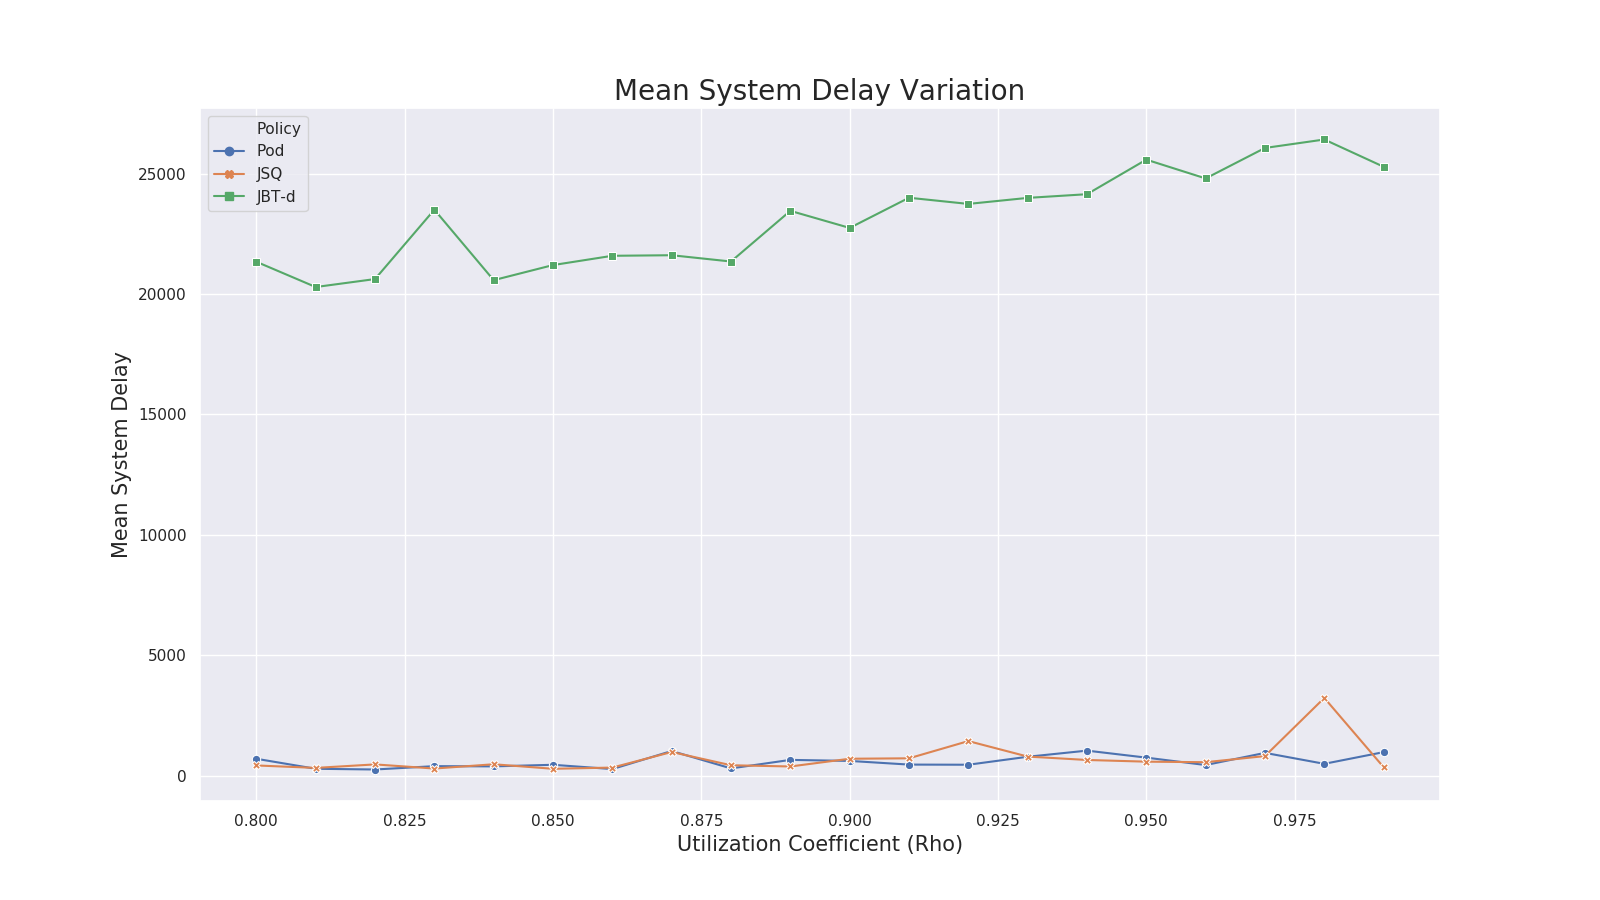
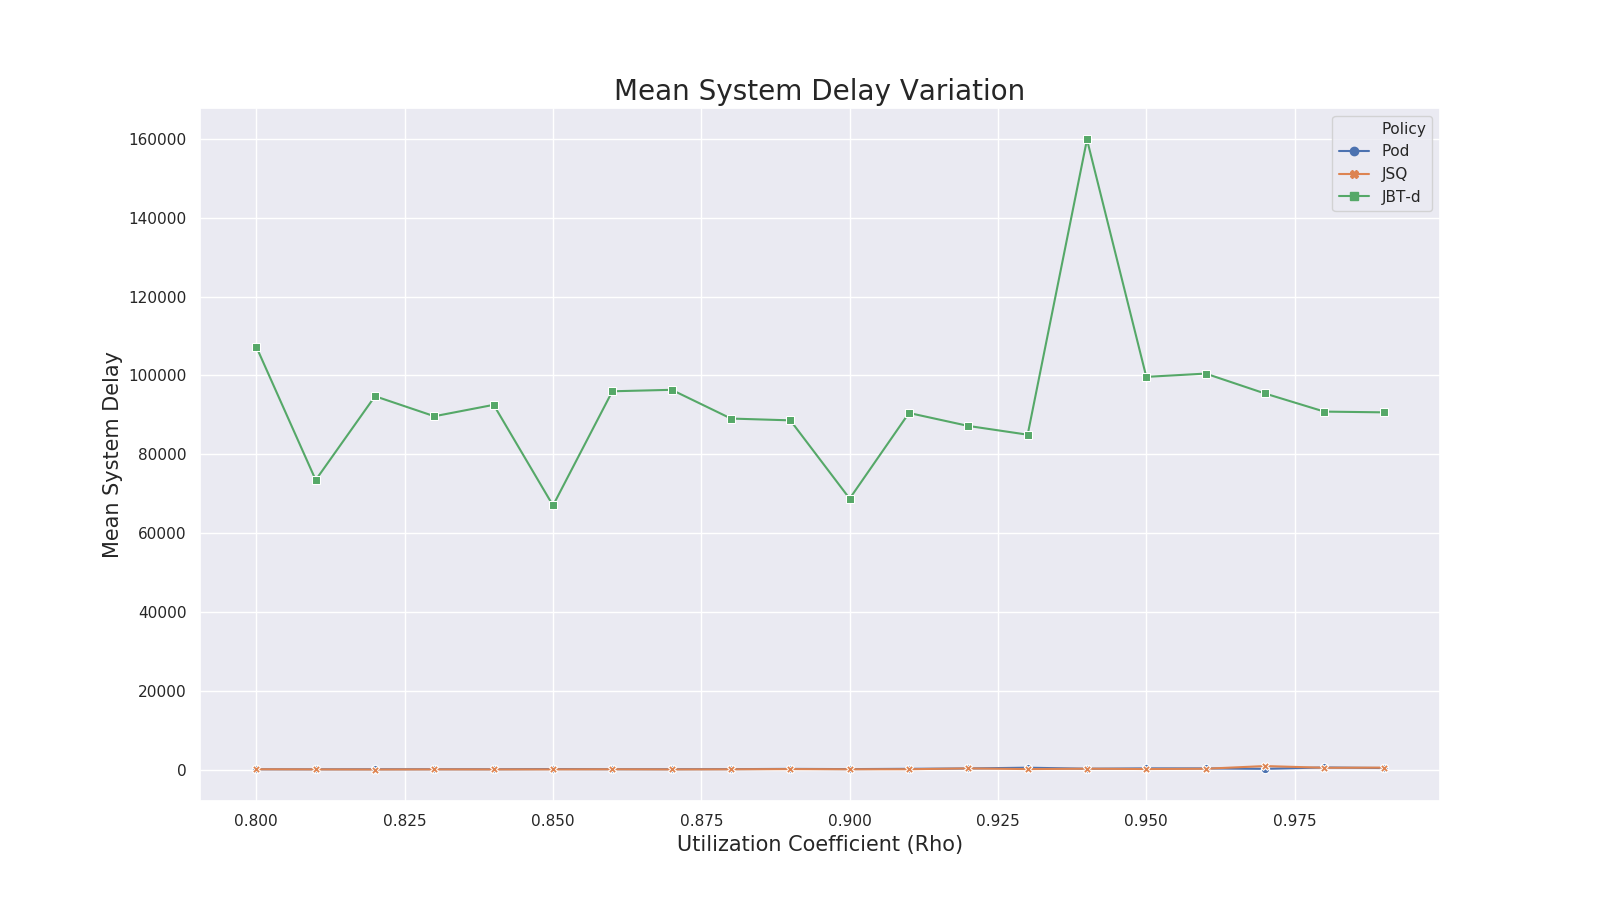
Update delay to system time

diff --git a/Dispatcher.py b/Dispatcher.py
@@ -8,8 +8,8 @@ class Dispatcher:
 
     # random.seed(1234)
 
-    q = 24/25
-    y = 100
+    q = 3/5
+    y = 10
     t_0 = 1
     alpha = 0.5
     t = 1000*t_0
@@ -24,7 +24,6 @@ class Dispatcher:
         self.d = d
         self.tasks_timeline = []
         self.system_times = []
-        self.delays = []
         self.beta = self.compute_beta(self.rho)
         self.interval_times = []
         self.process_times = []
@@ -90,8 +89,8 @@ class Dispatcher:
             task_finish_time = time + task
         self.servers[server_id] = task_finish_time
 
-        delay = task_finish_time - time
-        self.delays.append(delay)
+        system_time = task_finish_time - time
+        self.system_times.append(system_time)
 
     def compute_overhead(self):
         return 2*self.d
@@ -108,8 +107,7 @@ class Dispatcher:
                 list(self.servers.keys()), self.d)
             self.assign_task(time, server_id)
 
-        # mean_system_time = sum(self.system_times)/self.number_of_tasks
-        mean_system_delay = sum(self.delays)/self.number_of_tasks
+        mean_system_time = sum(self.system_times)/self.number_of_tasks
 
         print("Completed! rho = " + str(self.rho))
         process_time_exp = su.compute_process_time_exp(self.beta, self.alpha)
@@ -124,10 +122,10 @@ class Dispatcher:
         print("Mean process time =", mean_process_time)
         print("E[T] =", interval_time_exp)
         print("Mean interval time =", mean_interval_time)
-        print("The mean system delay is:", mean_system_delay)
+        print("The mean system time is:", mean_system_time)
         print()
 
-        return mean_system_delay
+        return mean_system_time
 
     def execute_simulation_jbt(self):
         print()
@@ -175,7 +173,7 @@ class Dispatcher:
 
             overhead += tasks_cnt + overhead_temp/self.t
 
-        mean_system_delay = sum(self.delays)/self.number_of_tasks
+        mean_system_time = sum(self.system_times)/self.number_of_tasks
         mean_overhead = overhead/self.number_of_tasks
 
         print("Completed! rho = " + str(self.rho))
@@ -191,7 +189,7 @@ class Dispatcher:
         print("Mean process time =", mean_process_time)
         print("E[T] =", interval_time_exp)
         print("Mean interval time =", mean_interval_time)
-        print("The mean system delay is:", mean_system_delay)
+        print("The mean system delay is:", mean_system_time)
         print()
 
-        return mean_system_delay, mean_overhead
+        return mean_system_time, mean_overhead

diff --git a/main.py b/main.py
@@ -6,13 +6,13 @@ from time import time
 from simulation_utils import Simulator, plot
 
 
-number_of_tasks = (10**5)
+number_of_tasks = (10**4)
 number_of_servers = 20
 d = 3
 rho_values = np.arange(0.8, 1., 0.01)
 multiple_sim = False
 n_sim = 5
-n_proc = mp.cpu_count()//1.5
+n_proc = mp.cpu_count()
 
 
 if __name__ == "__main__":
@@ -65,7 +65,7 @@ if __name__ == "__main__":
     ylabel = "Mean System Delay"
     df = df.melt('Rho', var_name='Policy',  value_name=ylabel)
     path = './plots/weibull_' + str(number_of_tasks) + '.png'
-    plot(df, d, "Mean System Delay Variation",
+    plot(df, d, "Mean System Time Variation",
          "Utilization Coefficient (Rho)", ylabel, path)
 
     data = {
